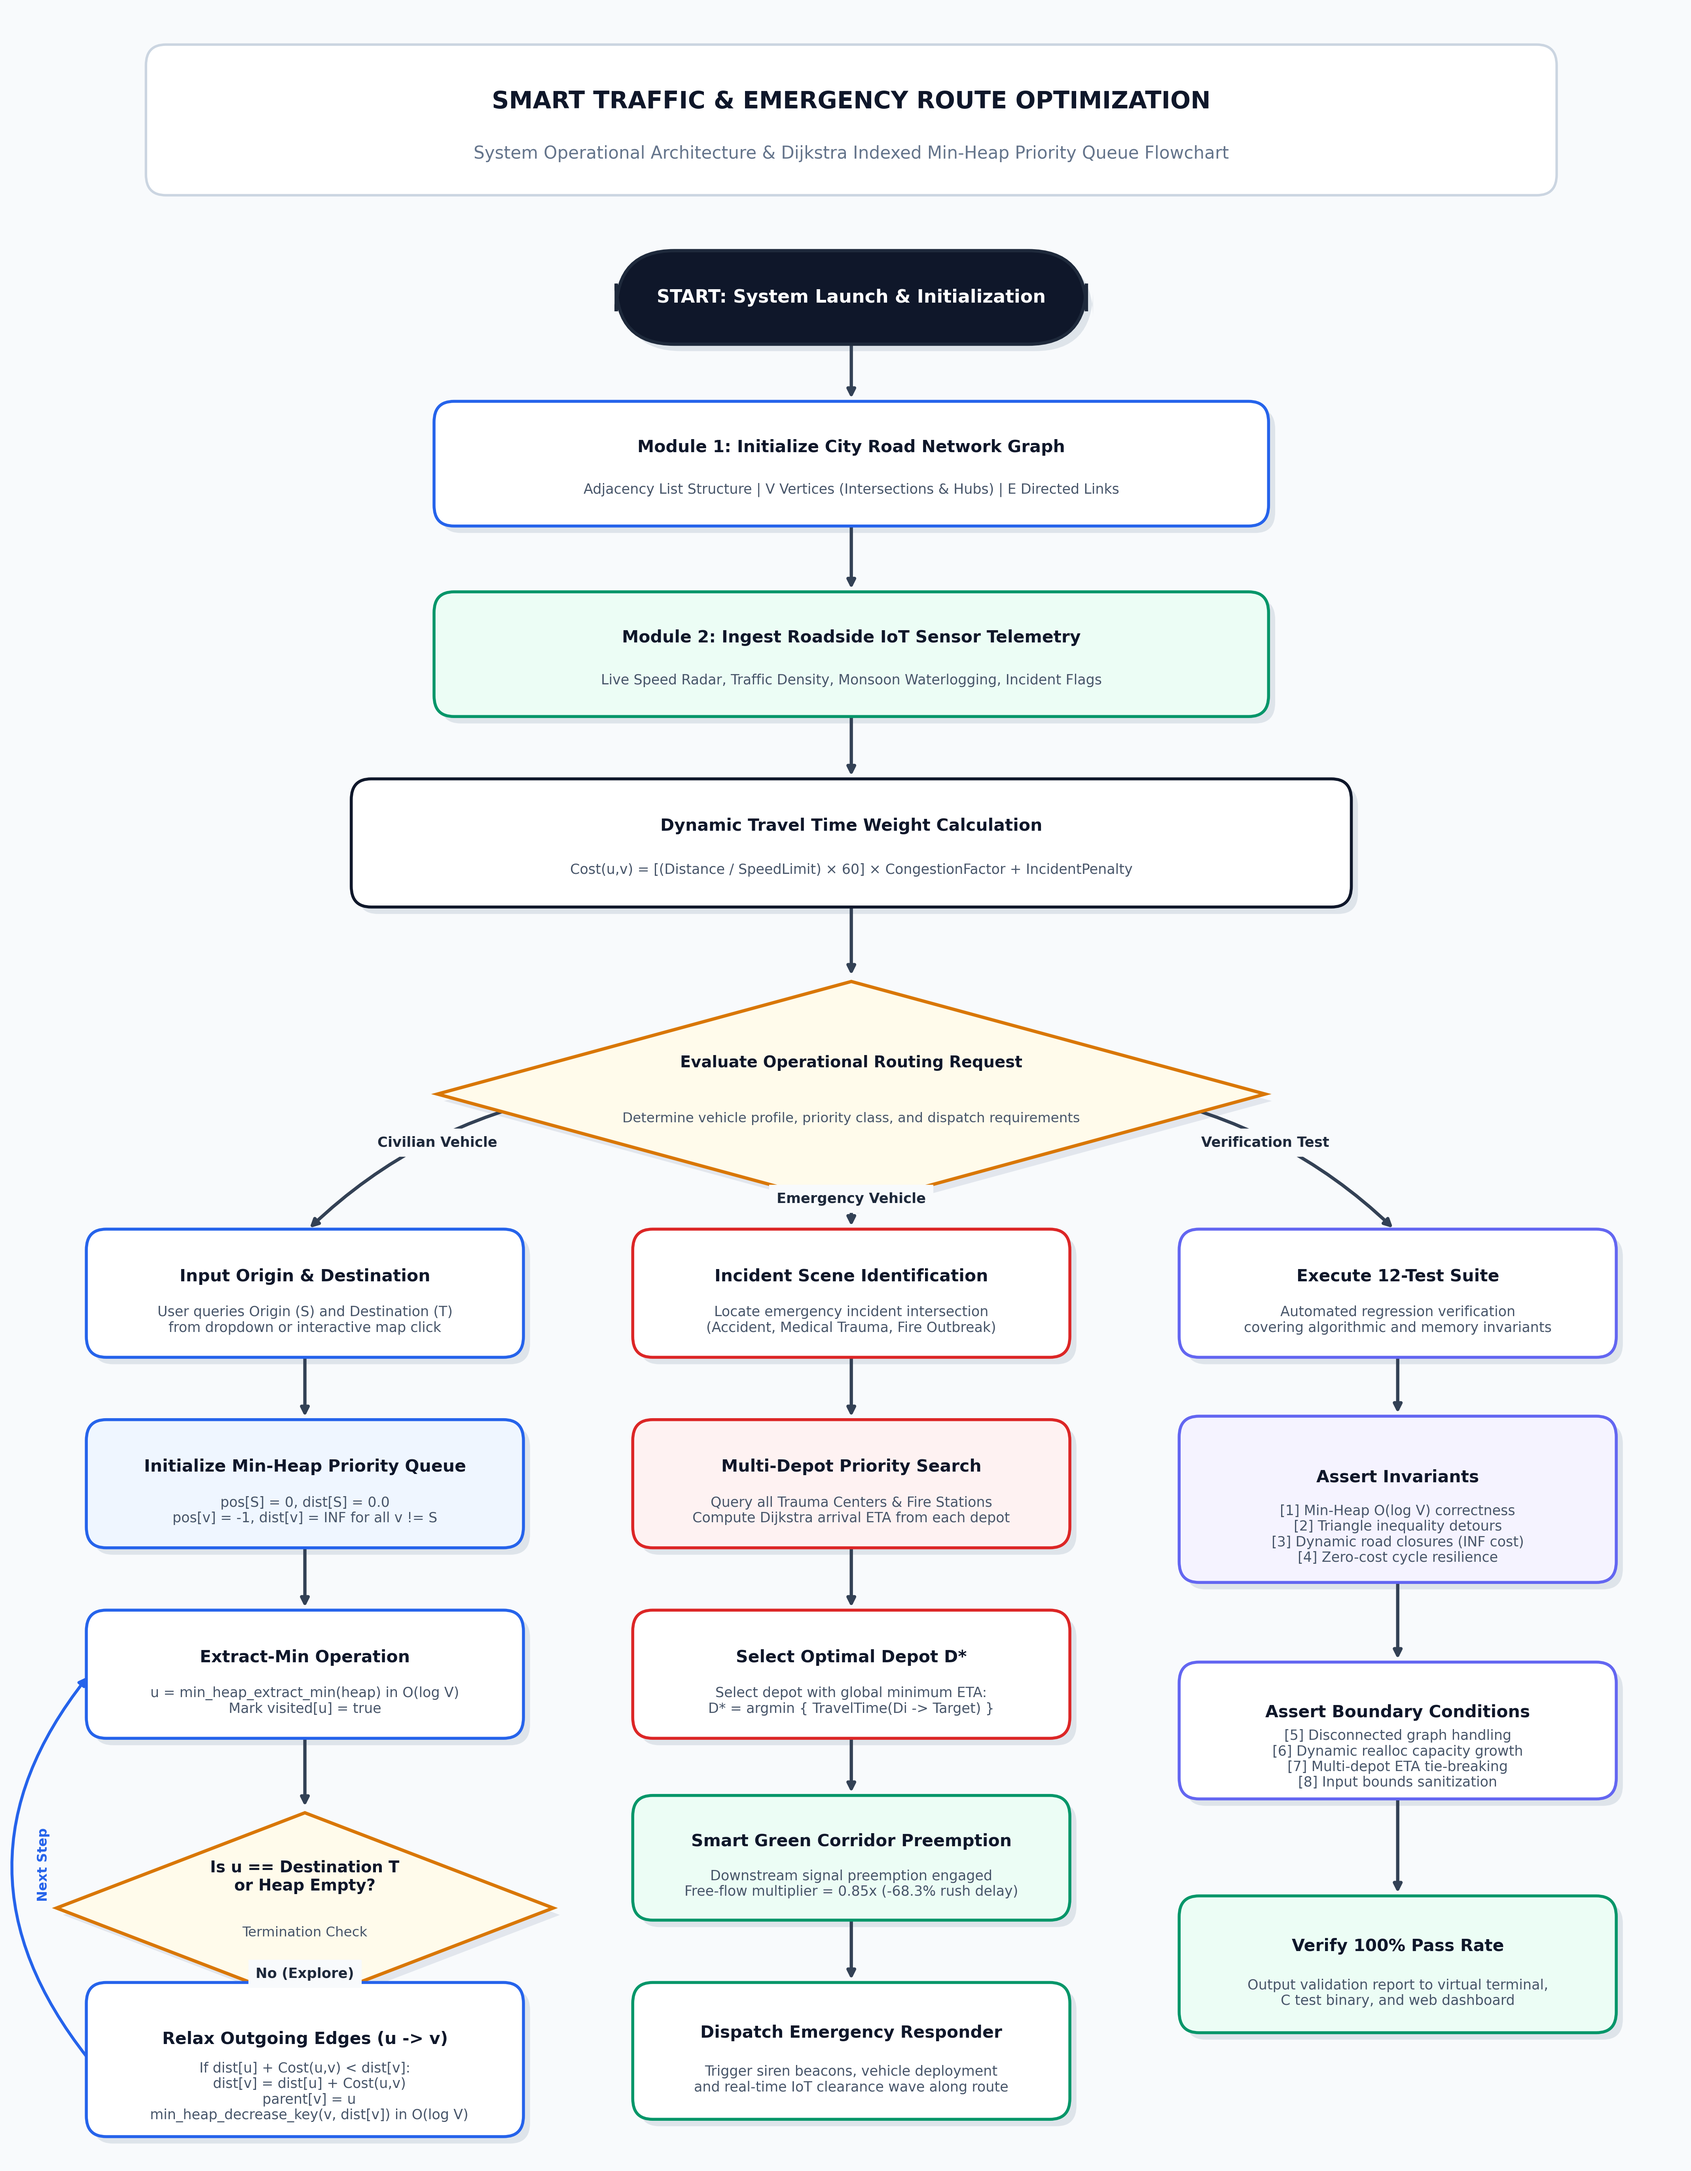
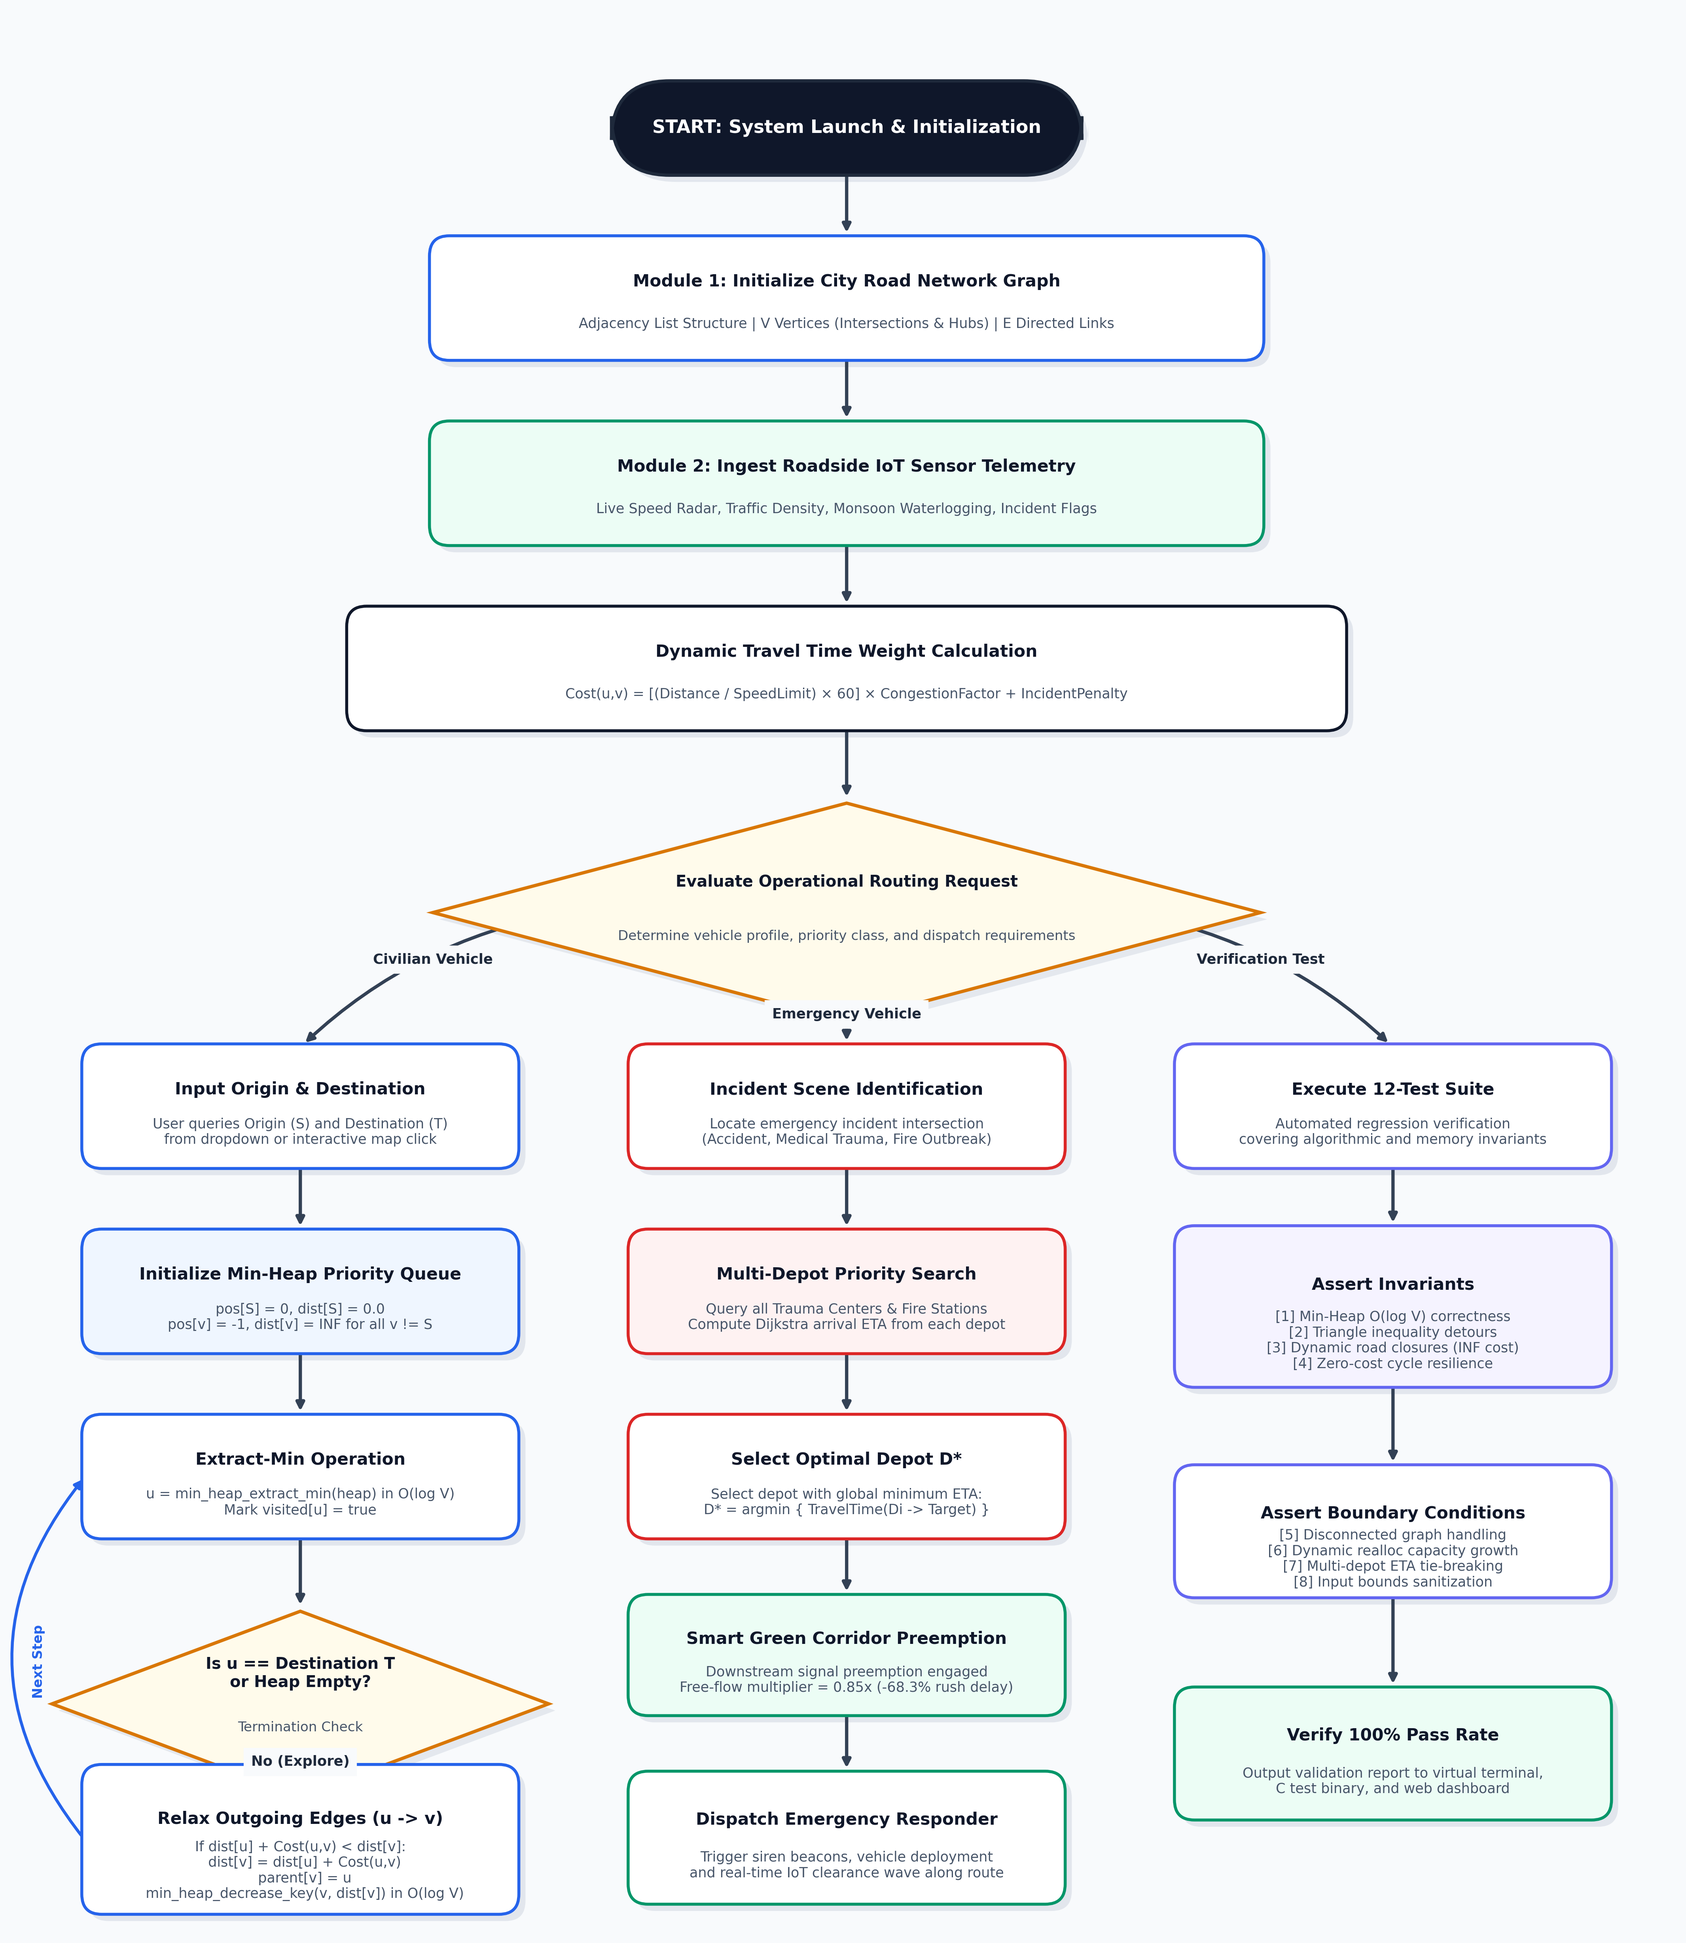
feat: add pure flowchart without any university headers

Changed region(s): [[0.0, 0.0312, 0.9674, 0.9969], [0.7489, 0.8723, 0.905, 0.9346], [0.6865, 0.8723, 0.7177, 0.9035]]

diff --git a/generate_clean_flowchart.py b/generate_clean_flowchart.py
@@ -1,0 +1,223 @@
+import os
+import matplotlib.pyplot as plt
+import matplotlib.patches as patches
+
+def generate_clean_flowchart():
+    # Set high resolution figure (18 x 21 inches at 300 DPI)
+    fig = plt.figure(figsize=(18, 21), dpi=300)
+    ax = fig.add_subplot(111)
+    ax.set_xlim(0, 100)
+    ax.set_ylim(0, 114)
+    ax.axis('off')
+
+    # Color Palette - Professional Clean Engineering Theme
+    c_bg = '#f8fafc'
+    c_navy = '#0f172a'
+    c_blue = '#2563eb'
+    c_blue_light = '#eff6ff'
+    c_emerald = '#059669'
+    c_emerald_light = '#ecfdf5'
+    c_amber = '#d97706'
+    c_amber_light = '#fffbeb'
+    c_crimson = '#dc2626'
+    c_crimson_light = '#fef2f2'
+    c_purple = '#6366f1'
+    c_purple_light = '#f5f3ff'
+    c_slate = '#475569'
+    c_border = '#cbd5e1'
+    c_text_dark = '#0f172a'
+
+    fig.patch.set_facecolor(c_bg)
+
+    # Helper function to draw rounded boxes with text
+    def draw_box(x, y, w, h, title, subtitle="", bg='#ffffff', border=c_border, txt_col=c_text_dark, border_w=1.8, rounding=1.2, z=3):
+        # Drop shadow
+        shadow = patches.FancyBboxPatch((x + 0.4, y - 0.4), w, h, boxstyle=f"round,pad=0.2,rounding_size={rounding}",
+                                        facecolor='#94a3b8', edgecolor='none', alpha=0.22, zorder=z-1)
+        ax.add_patch(shadow)
+        # Main box
+        box = patches.FancyBboxPatch((x, y), w, h, boxstyle=f"round,pad=0.2,rounding_size={rounding}",
+                                     facecolor=bg, edgecolor=border, linewidth=border_w, zorder=z)
+        ax.add_patch(box)
+        if subtitle:
+            ax.text(x + w/2, y + h*0.64, title, ha='center', va='center', color=txt_col,
+                    fontsize=10.2, fontweight='bold', family='sans-serif', zorder=z+1)
+            ax.text(x + w/2, y + h*0.28, subtitle, ha='center', va='center', color=c_slate,
+                    fontsize=8.4, family='sans-serif', zorder=z+1)
+        else:
+            ax.text(x + w/2, y + h/2, title, ha='center', va='center', color=txt_col,
+                    fontsize=10.2, fontweight='bold', family='sans-serif', zorder=z+1)
+
+    # Helper function to draw oval (Start / End)
+    def draw_oval(x, y, w, h, text, bg=c_navy, txt_col='#ffffff'):
+        shadow = patches.FancyBboxPatch((x + 0.4, y - 0.4), w, h, boxstyle="round,pad=0.2,rounding_size=3.5",
+                                        facecolor='#94a3b8', edgecolor='none', alpha=0.22, zorder=2)
+        ax.add_patch(shadow)
+        oval = patches.FancyBboxPatch((x, y), w, h, boxstyle="round,pad=0.2,rounding_size=3.5",
+                                      facecolor=bg, edgecolor='#1e293b', linewidth=2, zorder=3)
+        ax.add_patch(oval)
+        ax.text(x + w/2, y + h/2, text, ha='center', va='center', color=txt_col,
+                fontsize=11, fontweight='bold', family='sans-serif', zorder=4)
+
+    # Helper function to draw decision diamonds
+    def draw_diamond(cx, cy, w, h, title, subtitle="", bg=c_amber_light, border=c_amber):
+        pts = [[cx, cy + h/2], [cx + w/2, cy], [cx, cy - h/2], [cx - w/2, cy]]
+        shadow_pts = [[cx+0.4, cy + h/2 - 0.4], [cx + w/2 + 0.4, cy - 0.4], [cx + 0.4, cy - h/2 - 0.4], [cx - w/2 + 0.4, cy - 0.4]]
+        ax.add_patch(patches.Polygon(shadow_pts, facecolor='#94a3b8', edgecolor='none', alpha=0.20, zorder=2))
+        ax.add_patch(patches.Polygon(pts, facecolor=bg, edgecolor=border, linewidth=2, zorder=3))
+        if subtitle:
+            ax.text(cx, cy + 1.8, title, ha='center', va='center', color=c_text_dark,
+                    fontsize=9.6, fontweight='bold', family='sans-serif', zorder=4)
+            ax.text(cx, cy - 1.4, subtitle, ha='center', va='center', color=c_slate,
+                    fontsize=8.2, family='sans-serif', zorder=4)
+        else:
+            ax.text(cx, cy, title, ha='center', va='center', color=c_text_dark,
+                    fontsize=9.6, fontweight='bold', family='sans-serif', zorder=4)
+
+    # Helper function to draw connecting arrows
+    def draw_arrow(x1, y1, x2, y2, label="", col='#334155', rad=0.0, lw=2.0, lcol='#1e293b'):
+        ax.annotate('', xy=(x2, y2), xytext=(x1, y1),
+                    arrowprops=dict(arrowstyle="-|>", color=col, lw=lw,
+                                    connectionstyle=f"arc3,rad={rad}", shrinkA=3, shrinkB=4),
+                    zorder=2)
+        if label:
+            mx = (x1 + x2) / 2
+            my = (y1 + y2) / 2
+            ax.text(mx, my + 1.2, label, ha='center', va='center', fontsize=8.5,
+                    fontweight='bold', color=lcol, backgroundcolor=c_bg, zorder=5)
+
+    # ----------------- PIPELINE ELEMENTS (NO SRM / NO HEADERS) -----------------
+
+    # Top: START
+    draw_oval(36, 104.5, 28, 5.2, "START: System Launch & Initialization", bg=c_navy)
+
+    # Node 2: Initialize City Graph
+    draw_box(25, 93.5, 50, 7.0, "Module 1: Initialize City Road Network Graph",
+             "Adjacency List Structure | V Vertices (Intersections & Hubs) | E Directed Links",
+             bg='#ffffff', border=c_blue)
+    draw_arrow(50, 104.5, 50, 100.5)
+
+    # Node 3: Ingest IoT Sensor Data
+    draw_box(25, 82.5, 50, 7.0, "Module 2: Ingest Roadside IoT Sensor Telemetry",
+             "Live Speed Radar, Traffic Density, Monsoon Waterlogging, Incident Flags",
+             bg=c_emerald_light, border=c_emerald)
+    draw_arrow(50, 93.5, 50, 89.5)
+
+    # Node 4: Dynamic Edge Cost Computation
+    draw_box(20, 71.5, 60, 7.0, "Dynamic Travel Time Weight Calculation",
+             "Cost(u,v) = [(Distance / SpeedLimit) × 60] × CongestionFactor + IncidentPenalty",
+             bg='#ffffff', border=c_navy)
+    draw_arrow(50, 82.5, 50, 78.5)
+
+    # Node 5: Decision Diamond - Mode Selection (w=50, h=13.0)
+    draw_diamond(50, 60.5, 50, 13.0, "Evaluate Operational Routing Request",
+                 "Determine vehicle profile, priority class, and dispatch requirements",
+                 bg=c_amber_light, border=c_amber)
+    draw_arrow(50, 71.5, 50, 67.0)
+
+    # Three Major Tracks: Left = Civilian Track, Center = Emergency Track, Right = Regression Suite
+    draw_arrow(33, 60.5, 17, 52.5, label="Civilian Vehicle", rad=0.15)
+    draw_arrow(50, 54.0, 50, 52.5, label="Emergency Vehicle", rad=0.0)
+    draw_arrow(67, 60.5, 83, 52.5, label="Verification Test", rad=-0.15)
+
+    # ================= TRACK 1: CIVILIAN ROUTING (LEFT) =================
+    draw_box(4, 45.5, 26, 7.0, "Input Origin & Destination",
+             "User queries Origin (S) and Destination (T)\nfrom dropdown or interactive map click",
+             bg='#ffffff', border=c_blue)
+
+    draw_box(4, 34.5, 26, 7.0, "Initialize Min-Heap Priority Queue",
+             "pos[S] = 0, dist[S] = 0.0\npos[v] = -1, dist[v] = INF for all v != S",
+             bg=c_blue_light, border=c_blue)
+    draw_arrow(17, 45.5, 17, 41.5)
+
+    draw_box(4, 23.5, 26, 7.0, "Extract-Min Operation",
+             "u = min_heap_extract_min(heap) in O(log V)\nMark visited[u] = true",
+             bg='#ffffff', border=c_blue)
+    draw_arrow(17, 34.5, 17, 30.5)
+
+    draw_diamond(17, 13.5, 30, 11.0, "Is u == Destination T\nor Heap Empty?",
+                 "Termination Check", bg=c_amber_light, border=c_amber)
+    draw_arrow(17, 23.5, 17, 19.0)
+
+    # Edge Relaxation Box
+    draw_box(4, 1.2, 26, 8.5, "Relax Outgoing Edges (u -> v)",
+             "If dist[u] + Cost(u,v) < dist[v]:\n  dist[v] = dist[u] + Cost(u,v)\n  parent[v] = u\n  min_heap_decrease_key(v, dist[v]) in O(log V)",
+             bg='#ffffff', border=c_blue)
+
+    # Arrow from Decision "No" to Relaxation
+    draw_arrow(17, 8.0, 17, 9.7, label="No (Explore)")
+
+    # Arrow from Relaxation back up to Extract-Min (loop back)
+    ax.annotate('', xy=(4, 27), xytext=(4, 5.4),
+                arrowprops=dict(arrowstyle="-|>", color=c_blue, lw=1.8,
+                                connectionstyle="arc3,rad=-0.4", shrinkA=2, shrinkB=2), zorder=2)
+    ax.text(1.2, 16.0, "Next Step", ha='center', va='center', fontsize=8, color=c_blue, fontweight='bold', rotation=90)
+
+    # ================= TRACK 2: EMERGENCY DISPATCH & GREEN CORRIDOR (CENTER) =================
+    draw_box(37, 45.5, 26, 7.0, "Incident Scene Identification",
+             "Locate emergency incident intersection\n(Accident, Medical Trauma, Fire Outbreak)",
+             bg='#ffffff', border=c_crimson)
+
+    draw_box(37, 34.5, 26, 7.0, "Multi-Depot Priority Search",
+             "Query all Trauma Centers & Fire Stations\nCompute Dijkstra arrival ETA from each depot",
+             bg=c_crimson_light, border=c_crimson)
+    draw_arrow(50, 45.5, 50, 41.5)
+
+    draw_box(37, 23.5, 26, 7.0, "Select Optimal Depot D*",
+             "Select depot with global minimum ETA:\nD* = argmin { TravelTime(Di -> Target) }",
+             bg='#ffffff', border=c_crimson)
+    draw_arrow(50, 34.5, 50, 30.5)
+
+    draw_box(37, 13.0, 26, 6.8, "Smart Green Corridor Preemption",
+             "Downstream signal preemption engaged\nFree-flow multiplier = 0.85x (-68.3% rush delay)",
+             bg=c_emerald_light, border=c_emerald)
+    draw_arrow(50, 23.5, 50, 19.8)
+
+    draw_box(37, 1.8, 26, 7.5, "Dispatch Emergency Responder",
+             "Trigger siren beacons, vehicle deployment\nand real-time IoT clearance wave along route",
+             bg='#ffffff', border=c_emerald)
+    draw_arrow(50, 13.0, 50, 9.3)
+
+    # ================= TRACK 3: 12-TEST AUTOMATED VERIFICATION (RIGHT) =================
+    draw_box(70, 45.5, 26, 7.0, "Execute 12-Test Suite",
+             "Automated regression verification\ncovering algorithmic and memory invariants",
+             bg='#ffffff', border=c_purple)
+
+    draw_box(70, 32.5, 26, 9.2, "Assert Invariants",
+             "[1] Min-Heap O(log V) correctness\n[2] Triangle inequality detours\n[3] Dynamic road closures (INF cost)\n[4] Zero-cost cycle resilience",
+             bg=c_purple_light, border=c_purple)
+    draw_arrow(83, 45.5, 83, 41.7)
+
+    draw_box(70, 20.0, 26, 7.5, "Assert Boundary Conditions",
+             "[5] Disconnected graph handling\n[6] Dynamic realloc capacity growth\n[7] Multi-depot ETA tie-breaking\n[8] Input bounds sanitization",
+             bg='#ffffff', border=c_purple)
+    draw_arrow(83, 32.5, 83, 27.5)
+
+    draw_box(70, 6.8, 26, 7.5, "Verify 100% Pass Rate",
+             "Output validation report to virtual terminal,\nC test binary, and web dashboard",
+             bg=c_emerald_light, border=c_emerald)
+    draw_arrow(83, 20.0, 83, 14.3)
+
+    # Save to docs and artifacts
+    os.makedirs('docs', exist_ok=True)
+    out_docs = os.path.join('docs', 'clean_flowchart.png')
+    plt.savefig(out_docs, dpi=300, bbox_inches='tight', facecolor=fig.get_facecolor(), edgecolor='none')
+    print(f"Clean flowchart saved to {out_docs}")
+
+    # Also overwrite system_flowchart.png
+    out_docs_sys = os.path.join('docs', 'system_flowchart.png')
+    plt.savefig(out_docs_sys, dpi=300, bbox_inches='tight', facecolor=fig.get_facecolor(), edgecolor='none')
+
+    # Also save to artifacts directory
+    artifact_dir = r'C:\Users\91807\.gemini\antigravity\brain\d69874dc-bb70-41bf-b8b0-0e09de54be33'
+    if os.path.exists(artifact_dir):
+        out_art1 = os.path.join(artifact_dir, 'clean_flowchart.png')
+        out_art2 = os.path.join(artifact_dir, 'system_flowchart.png')
+        plt.savefig(out_art1, dpi=300, bbox_inches='tight', facecolor=fig.get_facecolor(), edgecolor='none')
+        plt.savefig(out_art2, dpi=300, bbox_inches='tight', facecolor=fig.get_facecolor(), edgecolor='none')
+        print(f"Clean flowchart saved to {out_art1} and {out_art2}")
+
+    plt.close()
+
+if __name__ == '__main__':
+    generate_clean_flowchart()
